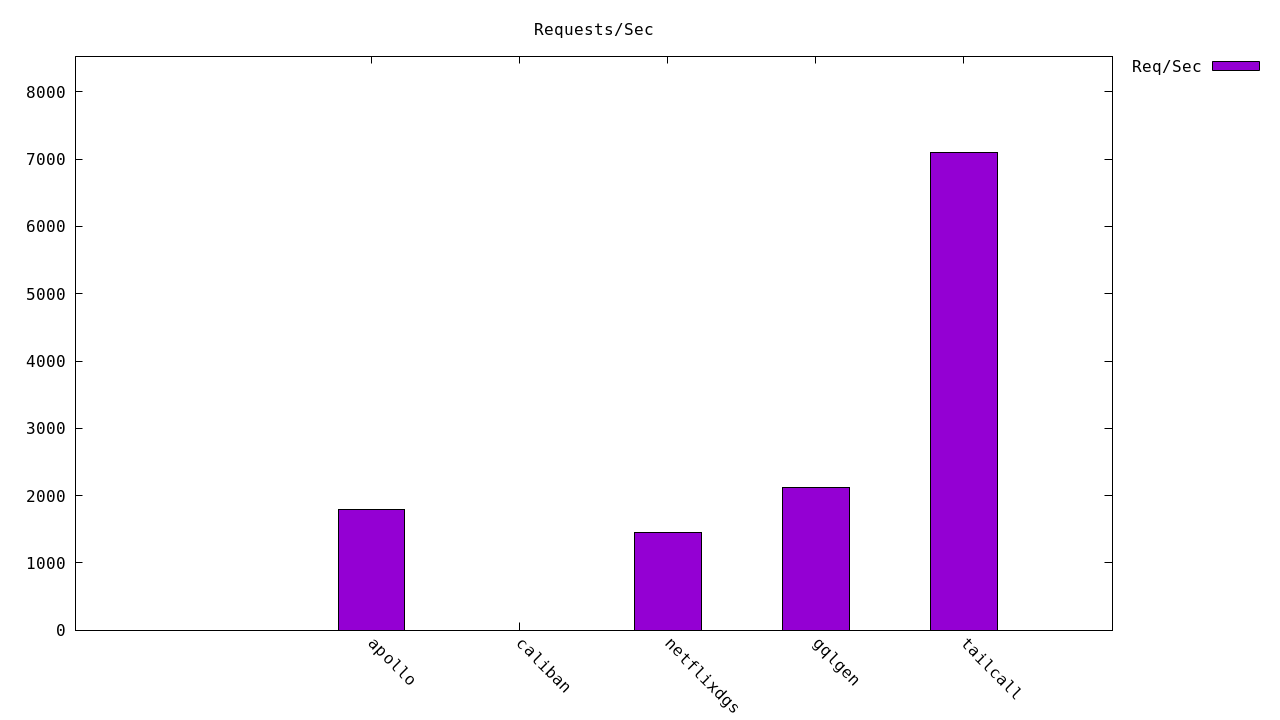
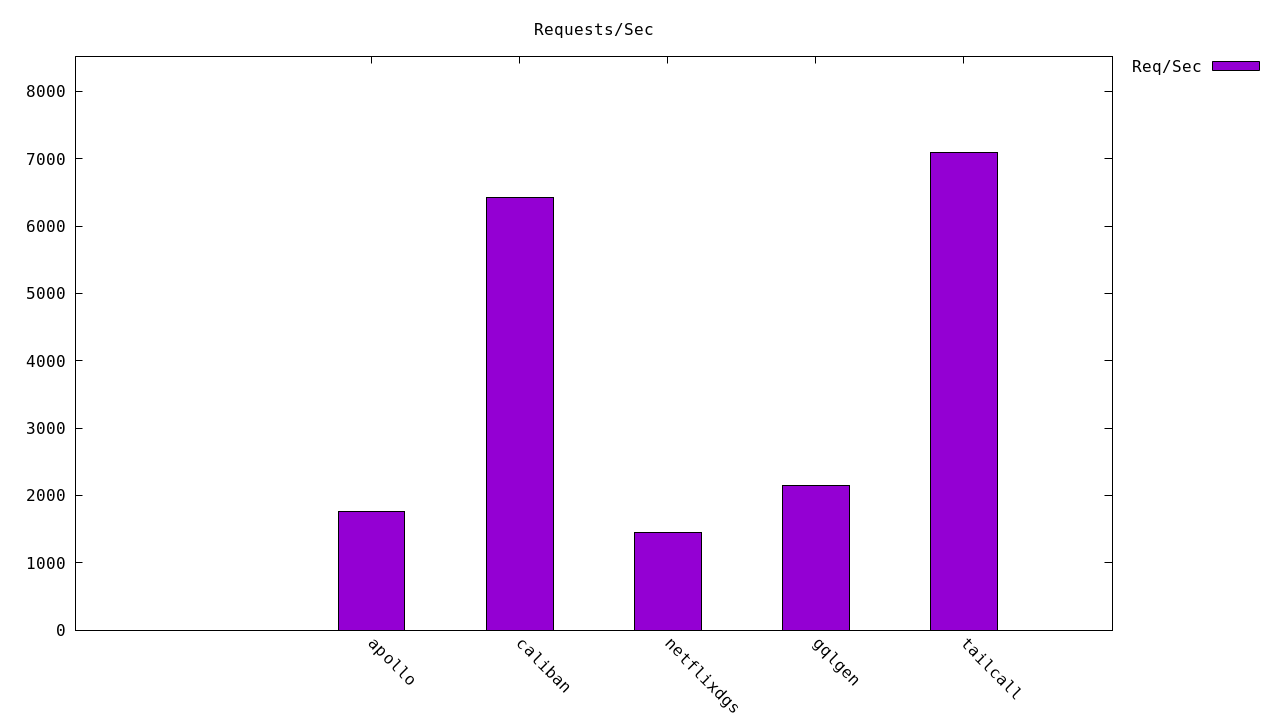
Update performance results in README.md

diff --git a/README.md b/README.md
@@ -46,11 +46,11 @@ Get started with the benchmarks:
 
 | Server | Requests/sec | Latency (ms) |
 |--------:|--------------:|--------------:|
-| [Tailcall] | `7,105.14` | `14.06` |
-| [Gqlgen] | `2,116.96` | `48.78` |
-| [Apollo GraphQL] | `1,788.70` | `55.78` |
-| [Netflix DGS] | `1,455.74` | `87.71` |
-| [Caliban] | `-nan` | `-nan` |
+| [Tailcall] | `7,098.02` | `14.05` |
+| [Caliban] | `6,428.14` | `15.66` |
+| [Gqlgen] | `2,147.01` | `48.48` |
+| [Apollo GraphQL] | `1,759.84` | `56.65` |
+| [Netflix DGS] | `1,455.06` | `88.90` |
 
 <!-- PERFORMANCE_RESULTS_END -->
 
